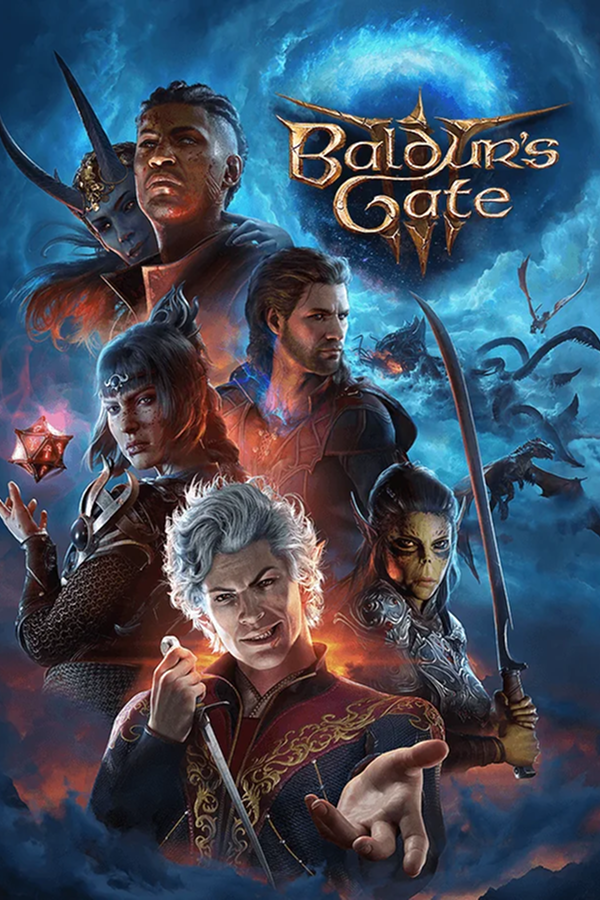
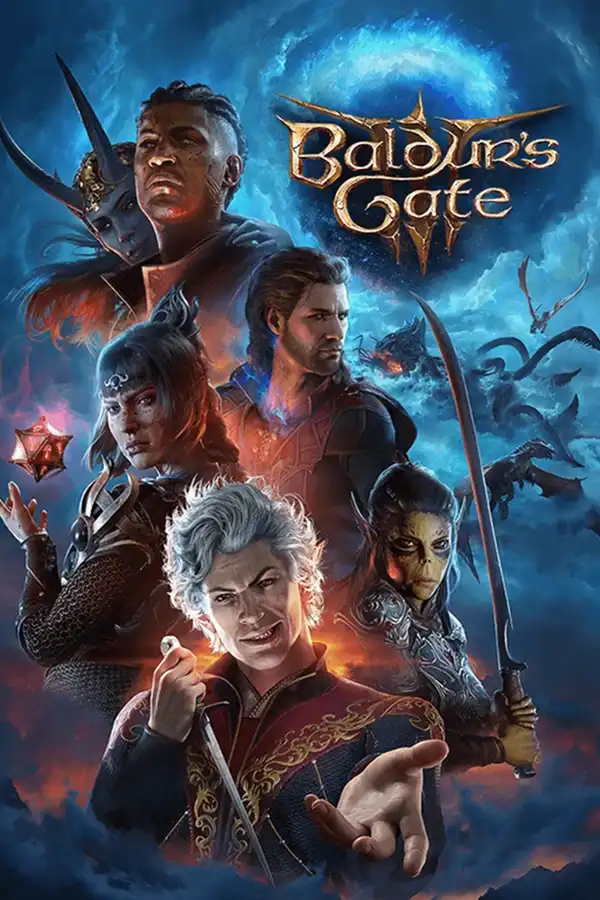
Replace all cover art with 600×900 drop-ins
37 full-resolution covers plus the Ludos logo, so every registry key in
covers.config.mjs now has a drop-in and no game falls back to the design
tool's exports. 80 of 99 slots serve /covers/ art, up from 4.

The exported art was recompressed three times inside the design tool to fit a
2 MB storage cap, leaving covers ~240 px tall — 2× too small on a 3× phone
screen and 2.8× short at the head-to-head outcome. These are 600×900, the
Steam vertical capsule spec, which clears every on-screen use with headroom.

cv-pick-stray and cv-h2h-stray had no artwork at all and now render, taking
the manifest from 97 slots to 99.

Also drops the 79 files in public/images/ that these covers made unreachable.
They remain in project/, the design bundle the handoff keeps deliberately, so
nothing is lost. What's left is the 18 decorative marquee tiles, which no
registry entry claims.

Verified: npm run covers regenerates the manifest identically after the
deletion, typecheck and build clean, 34/34 smoke checks pass with no page
errors. dist/ 3.4 MB → 2.6 MB, and public/images/ 1.0 MB → 192 KB.

diff --git a/ludosfiles/src/data/covers.ts b/ludosfiles/src/data/covers.ts
@@ -17,83 +17,85 @@ export interface CoverEntry {
 }
 
 export const COVERS: Record<string, CoverEntry> = {
-  "cv-fr-citizensleeper": { src: "/images/cv-fr-citizensleeper.webp" },
-  "cv-fr-cocoon": { src: "/images/cv-fr-cocoon.webp" },
-  "cv-fr-hades": { src: "/images/cv-fr-hades.webp" },
-  "cv-fr-pizzatower": { src: "/images/cv-fr-pizzatower.webp" },
-  "cv-fr-seaofstars": { src: "/images/cv-fr-seaofstars.webp" },
-  "cv-fr-tunic": { src: "/images/cv-fr-tunic.webp" },
+  "cv-fr-citizensleeper": { src: "/covers/citizen-sleeper.webp" },
+  "cv-fr-cocoon": { src: "/covers/cocoon.webp" },
+  "cv-fr-hades": { src: "/covers/hades-ii.webp" },
+  "cv-fr-pizzatower": { src: "/covers/pizza-tower.webp" },
+  "cv-fr-seaofstars": { src: "/covers/sea-of-stars.webp" },
+  "cv-fr-tunic": { src: "/covers/tunic.webp" },
   "cv-gl-bg3": { src: "/covers/baldurs-gate-3.webp" },
-  "cv-gl-firstlight": { src: "/images/cv-gl-firstlight.webp" },
-  "cv-gl-forza": { src: "/images/cv-gl-forza.webp" },
-  "cv-gl-pragmata": { src: "/images/cv-gl-pragmata.webp" },
-  "cv-gl-sflegends": { src: "/images/cv-gl-sflegends.webp" },
-  "cv-gl-subnautica": { src: "/images/cv-gl-subnautica.webp" },
+  "cv-gl-firstlight": { src: "/covers/007-first-light.webp" },
+  "cv-gl-forza": { src: "/covers/forza-horizon-6.webp" },
+  "cv-gl-pragmata": { src: "/covers/pragmata.webp" },
+  "cv-gl-sflegends": { src: "/covers/silksong.webp" },
+  "cv-gl-subnautica": { src: "/covers/subnautica-2.webp" },
   "cv-h2h-bg3": { src: "/covers/baldurs-gate-3.webp" },
-  "cv-h2h-celeste": { src: "/images/cv-h2h-celeste.webp" },
-  "cv-h2h-citizen": { src: "/images/cv-h2h-citizen.webp" },
-  "cv-h2h-disco": { src: "/images/cv-h2h-disco.webp" },
-  "cv-h2h-ds3": { src: "/images/cv-h2h-ds3.webp" },
-  "cv-h2h-hades": { src: "/images/cv-h2h-hades.webp", x: 1.1102230246251565e-14, y: -6.93359375 },
-  "cv-h2h-hollow": { src: "/images/cv-h2h-hollow.webp", y: 19.565217391304344 },
-  "cv-h2h-outer": { src: "/images/cv-h2h-outer.webp" },
-  "cv-h2h-sts": { src: "/images/cv-h2h-sts.webp" },
-  "cv-h2h-totk": { src: "/images/cv-h2h-totk.webp" },
-  "cv-h2h-tunic": { src: "/images/cv-h2h-tunic.webp" },
+  "cv-h2h-celeste": { src: "/covers/celeste.webp" },
+  "cv-h2h-citizen": { src: "/covers/citizen-sleeper.webp" },
+  "cv-h2h-disco": { src: "/covers/disco-elysium.webp" },
+  "cv-h2h-ds3": { src: "/covers/dark-souls-3.webp" },
+  "cv-h2h-hades": { src: "/covers/hades-ii.webp" },
+  "cv-h2h-hollow": { src: "/covers/hollow-knight.webp" },
+  "cv-h2h-outer": { src: "/covers/outer-wilds.webp" },
+  "cv-h2h-stray": { src: "/covers/stray.webp" },
+  "cv-h2h-sts": { src: "/covers/slay-the-spire.webp" },
+  "cv-h2h-totk": { src: "/covers/zelda-totk.webp" },
+  "cv-h2h-tunic": { src: "/covers/tunic.webp" },
   "cv-pick-bg3": { src: "/covers/baldurs-gate-3.webp" },
-  "cv-pick-celeste": { src: "/images/cv-pick-celeste.webp" },
-  "cv-pick-citizen": { src: "/images/cv-pick-citizen.webp", y: 24.644321348608994 },
-  "cv-pick-disco": { src: "/images/cv-pick-disco.webp", y: -6.353764478764479 },
-  "cv-pick-ds3": { src: "/images/cv-pick-ds3.webp" },
-  "cv-pick-hades": { src: "/images/cv-pick-hades.webp" },
-  "cv-pick-hollow": { src: "/images/cv-pick-hollow.webp" },
-  "cv-pick-outer": { src: "/images/cv-pick-outer.webp" },
-  "cv-pick-sts": { src: "/images/cv-pick-sts.webp" },
-  "cv-pick-totk": { src: "/images/cv-pick-totk.webp" },
-  "cv-pick-tunic": { src: "/images/cv-pick-tunic.webp", y: 8.841463414634143 },
-  "cv-played-blank-1": { src: "/images/cv-played-blank-1.webp" },
-  "cv-played-blank-10": { src: "/images/cv-played-blank-10.webp" },
-  "cv-played-blank-2": { src: "/images/cv-played-blank-2.webp" },
-  "cv-played-blank-3": { src: "/images/cv-played-blank-3.webp" },
-  "cv-played-blank-4": { src: "/images/cv-played-blank-4.webp" },
-  "cv-played-blank-5": { src: "/images/cv-played-blank-5.webp" },
-  "cv-played-blank-6": { src: "/images/cv-played-blank-6.webp" },
-  "cv-played-blank-7": { src: "/images/cv-played-blank-7.webp" },
-  "cv-played-blank-8": { src: "/images/cv-played-blank-8.webp" },
-  "cv-played-blank-9": { src: "/images/cv-played-blank-9.webp" },
-  "cv-search-acbf": { src: "/images/cv-search-acbf.webp" },
+  "cv-pick-celeste": { src: "/covers/celeste.webp" },
+  "cv-pick-citizen": { src: "/covers/citizen-sleeper.webp" },
+  "cv-pick-disco": { src: "/covers/disco-elysium.webp" },
+  "cv-pick-ds3": { src: "/covers/dark-souls-3.webp" },
+  "cv-pick-hades": { src: "/covers/hades-ii.webp" },
+  "cv-pick-hollow": { src: "/covers/hollow-knight.webp" },
+  "cv-pick-outer": { src: "/covers/outer-wilds.webp" },
+  "cv-pick-stray": { src: "/covers/stray.webp" },
+  "cv-pick-sts": { src: "/covers/slay-the-spire.webp" },
+  "cv-pick-totk": { src: "/covers/zelda-totk.webp" },
+  "cv-pick-tunic": { src: "/covers/tunic.webp" },
+  "cv-played-blank-1": { src: "/covers/balatro.webp" },
+  "cv-played-blank-10": { src: "/covers/ac-odyssey.webp" },
+  "cv-played-blank-2": { src: "/covers/mario-galaxy-2.webp" },
+  "cv-played-blank-3": { src: "/covers/katana-zero.webp" },
+  "cv-played-blank-4": { src: "/covers/clair-obscur-33.webp" },
+  "cv-played-blank-5": { src: "/covers/lies-of-p.webp" },
+  "cv-played-blank-6": { src: "/covers/dead-cells.webp" },
+  "cv-played-blank-7": { src: "/covers/nier-automata.webp" },
+  "cv-played-blank-8": { src: "/covers/sea-of-stars.webp" },
+  "cv-played-blank-9": { src: "/covers/until-then.webp" },
+  "cv-search-acbf": { src: "/covers/ac-black-flag.webp" },
   "cv-search-bg3": { src: "/covers/baldurs-gate-3.webp" },
-  "cv-search-celeste": { src: "/images/cv-search-celeste.webp" },
-  "cv-search-citizen": { src: "/images/cv-search-citizen.webp" },
-  "cv-search-disco": { src: "/images/cv-search-disco.webp" },
-  "cv-search-elden": { src: "/images/cv-search-elden.webp" },
-  "cv-search-firstlight": { src: "/images/cv-search-firstlight.webp" },
-  "cv-search-forza": { src: "/images/cv-search-forza.webp" },
-  "cv-search-gamble": { src: "/images/cv-search-gamble.webp" },
-  "cv-search-hades2": { src: "/images/cv-search-hades2.webp" },
-  "cv-search-hollow": { src: "/images/cv-search-hollow.webp" },
-  "cv-search-meccha": { src: "/images/cv-search-meccha.webp" },
-  "cv-search-mina": { src: "/images/cv-search-mina.webp" },
-  "cv-search-outerwilds": { src: "/images/cv-search-outerwilds.webp" },
-  "cv-search-pragmata": { src: "/images/cv-search-pragmata.webp" },
-  "cv-search-sekiro": { src: "/images/cv-search-sekiro.webp" },
-  "cv-search-stray": { src: "/images/cv-search-stray.webp" },
-  "cv-search-subnautica": { src: "/images/cv-search-subnautica.webp" },
-  "cv-search-tunic": { src: "/images/cv-search-tunic.webp" },
-  "cv-search-zelda": { src: "/images/cv-search-zelda.webp" },
-  "cv-seed-celeste": { src: "/images/cv-seed-celeste.webp" },
-  "cv-seed-ds3": { src: "/images/cv-seed-ds3.webp" },
-  "cv-seed-hollow": { src: "/images/cv-seed-hollow.webp" },
-  "cv-seed-outer": { src: "/images/cv-seed-outer.webp" },
-  "cv-seed-totk": { src: "/images/cv-seed-totk.webp" },
-  "cv-seed-tunic": { src: "/images/cv-seed-tunic.webp" },
-  "cv-spotlight": { src: "/images/cv-spotlight.webp" },
-  "cv-ts-celeste": { src: "/images/cv-ts-celeste.webp" },
-  "cv-ts-inscryption": { src: "/images/cv-ts-inscryption.webp" },
-  "cv-ts-outerwilds": { src: "/images/cv-ts-outerwilds.webp" },
-  "cv-ts-slaythespire": { src: "/images/cv-ts-slaythespire.webp" },
-  "cv-ts-tetriseffect": { src: "/images/cv-ts-tetriseffect.webp" },
-  "cv-ts-tunic": { src: "/images/cv-ts-tunic.webp" },
+  "cv-search-celeste": { src: "/covers/celeste.webp" },
+  "cv-search-citizen": { src: "/covers/citizen-sleeper.webp" },
+  "cv-search-disco": { src: "/covers/disco-elysium.webp" },
+  "cv-search-elden": { src: "/covers/elden-ring.webp" },
+  "cv-search-firstlight": { src: "/covers/007-first-light.webp" },
+  "cv-search-forza": { src: "/covers/forza-horizon-6.webp" },
+  "cv-search-gamble": { src: "/covers/gamble-with-your-friends.webp" },
+  "cv-search-hades2": { src: "/covers/hades-ii.webp" },
+  "cv-search-hollow": { src: "/covers/hollow-knight.webp" },
+  "cv-search-meccha": { src: "/covers/meccha-chameleon.webp" },
+  "cv-search-mina": { src: "/covers/mina-the-hollower.webp" },
+  "cv-search-outerwilds": { src: "/covers/outer-wilds.webp" },
+  "cv-search-pragmata": { src: "/covers/pragmata.webp" },
+  "cv-search-sekiro": { src: "/covers/sekiro.webp" },
+  "cv-search-stray": { src: "/covers/stray.webp" },
+  "cv-search-subnautica": { src: "/covers/subnautica-2.webp" },
+  "cv-search-tunic": { src: "/covers/tunic.webp" },
+  "cv-search-zelda": { src: "/covers/zelda-totk.webp" },
+  "cv-seed-celeste": { src: "/covers/celeste.webp" },
+  "cv-seed-ds3": { src: "/covers/dark-souls-3.webp" },
+  "cv-seed-hollow": { src: "/covers/hollow-knight.webp" },
+  "cv-seed-outer": { src: "/covers/outer-wilds.webp" },
+  "cv-seed-totk": { src: "/covers/zelda-totk.webp" },
+  "cv-seed-tunic": { src: "/covers/tunic.webp" },
+  "cv-spotlight": { src: "/covers/elden-ring.webp" },
+  "cv-ts-celeste": { src: "/covers/celeste.webp" },
+  "cv-ts-inscryption": { src: "/covers/inscryption.webp" },
+  "cv-ts-outerwilds": { src: "/covers/outer-wilds.webp" },
+  "cv-ts-slaythespire": { src: "/covers/slay-the-spire.webp" },
+  "cv-ts-tetriseffect": { src: "/covers/tetris-effect.webp" },
+  "cv-ts-tunic": { src: "/covers/tunic.webp" },
   "disc-r1-1": { src: "/images/disc-r1-1.webp" },
   "disc-r1-2": { src: "/images/disc-r1-2.webp" },
   "disc-r1-3": { src: "/images/disc-r1-3.webp" },
@@ -112,6 +114,6 @@ export const COVERS: Record<string, CoverEntry> = {
   "disc-r3-4": { src: "/images/disc-r3-4.webp" },
   "disc-r3-5": { src: "/images/disc-r3-5.webp" },
   "disc-r3-6": { src: "/images/disc-r3-6.webp" },
-  "intro-elden-cover": { src: "/images/intro-elden-cover.webp" },
-  "intro-logo": { src: "/images/intro-logo.webp" },
+  "intro-elden-cover": { src: "/covers/clair-obscur-33.webp" },
+  "intro-logo": { src: "/covers/ludos-logo.png" },
 };
